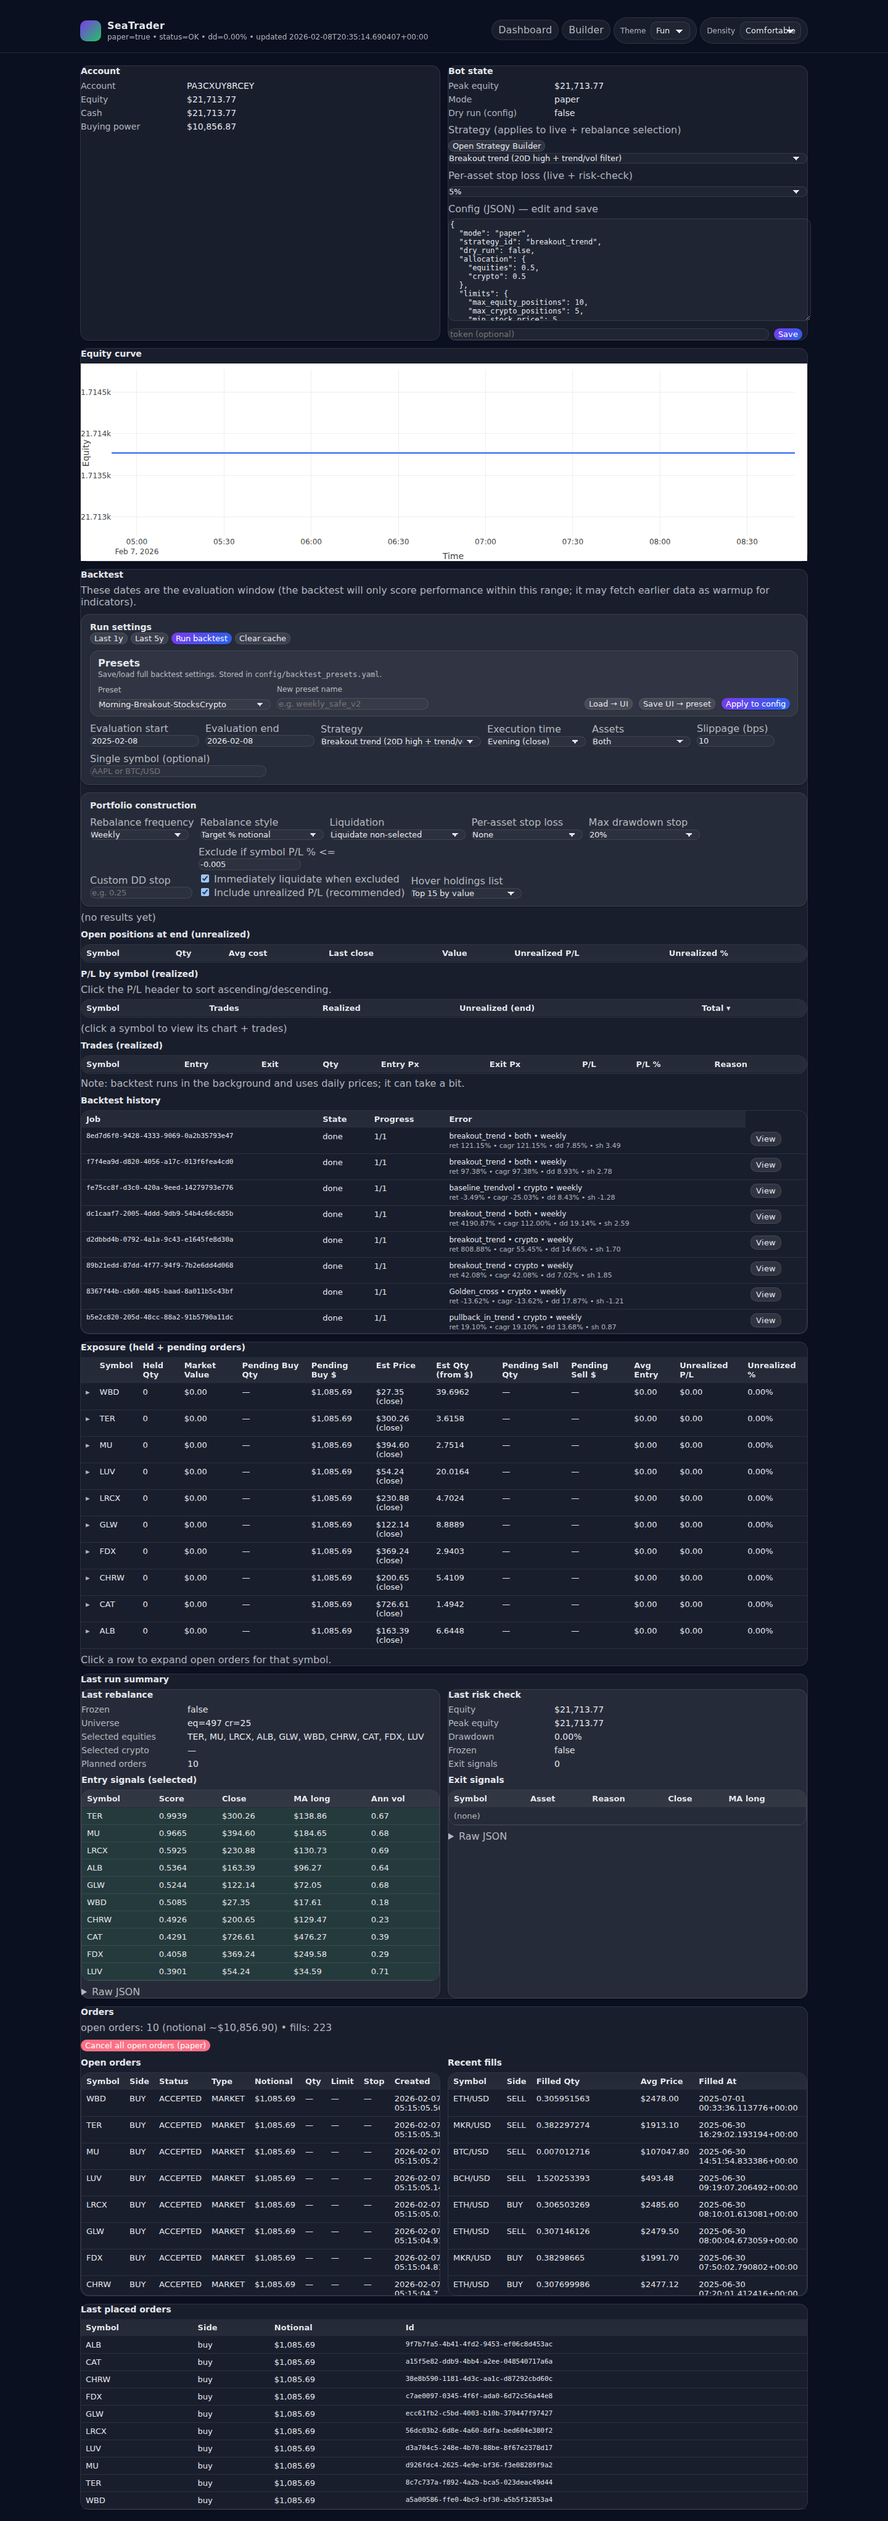
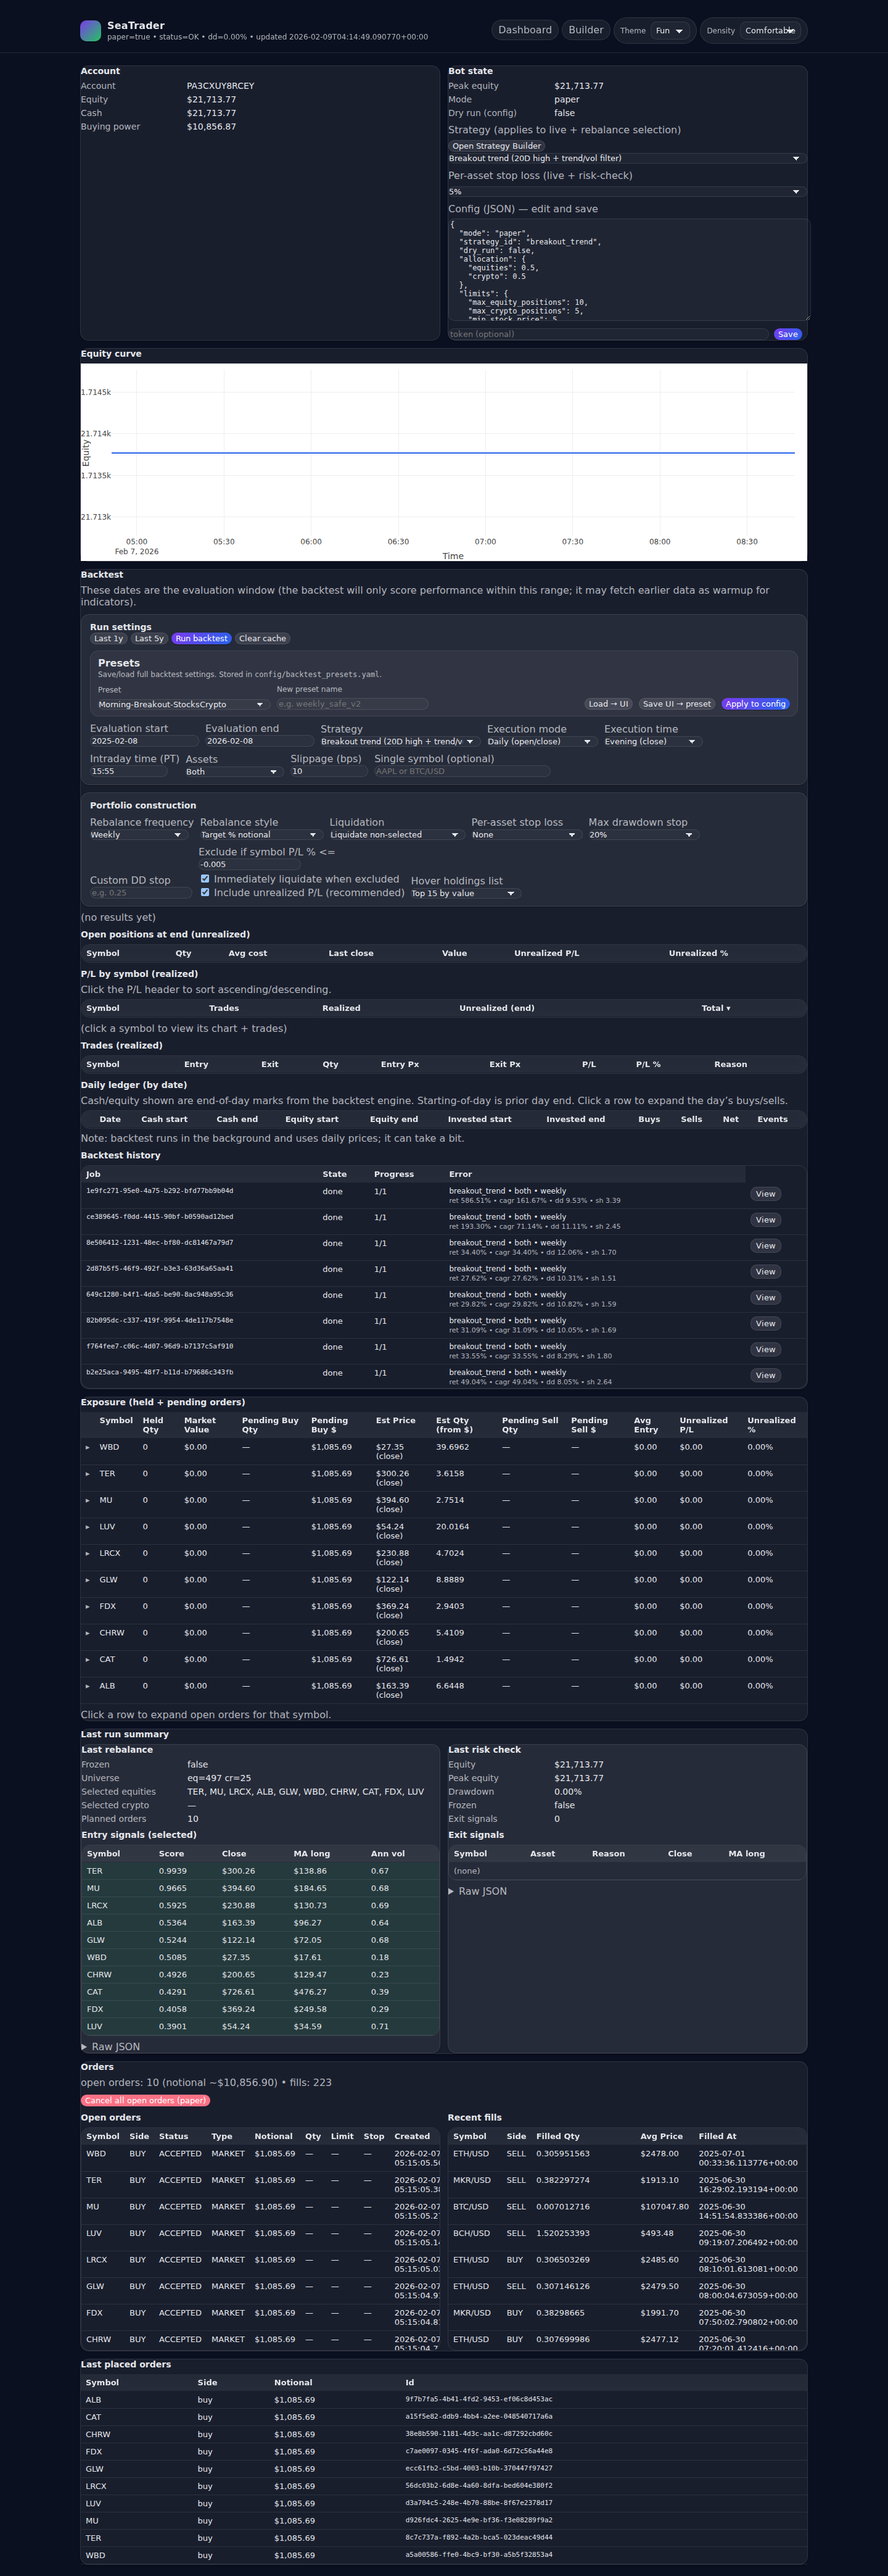
Paper trading: add --wait-until scheduling + doc; intraday backtest perf fix; refresh screenshots

diff --git a/src/tradebot/cli.py b/src/tradebot/cli.py
@@ -27,6 +27,23 @@ from tradebot.util.equity_curve import append_equity_point
 
 def cmd_rebalance(args: argparse.Namespace) -> int:
     cfg = load_config(args.config)
+
+    # Optional unattended scheduling: wait until configured/local time (rebalance only).
+    if args.wait_until is not None:
+        from datetime import datetime
+        from zoneinfo import ZoneInfo
+        import time as _time
+
+        tz = ZoneInfo(getattr(cfg.scheduling, "timezone", "America/Los_Angeles"))
+        now = datetime.now(tz)
+        hh, mm = [int(x) for x in str(args.wait_until).split(":")]
+        target = now.replace(hour=hh, minute=mm, second=0, microsecond=0)
+        if target > now:
+            secs = (target - now).total_seconds()
+            print(f"Waiting until {target.strftime('%Y-%m-%d %H:%M %Z')} (sleep {int(secs)}s)...")
+            _time.sleep(secs)
+        else:
+            print(f"[yellow]Warning[/yellow]: wait_until {args.wait_until} is in the past (now {now.strftime('%H:%M %Z')}); running immediately")
     env = load_env()
 
     # config can force dry_run; env can also force dry_run
@@ -209,6 +226,11 @@ def main() -> int:
     pr = sub.add_parser("rebalance", help="Run a (dry-run) rebalance")
     pr.add_argument("--config", default=str(Path("config/config.yaml")), help="Path to config YAML")
     pr.add_argument("--place-orders", action="store_true", help="Actually place orders (requires dry_run=false in config and DRY_RUN=false env)")
+    pr.add_argument(
+        "--wait-until",
+        default=None,
+        help="Optional local time HH:MM to sleep until before running (uses config.scheduling.timezone). Useful for unattended open/close runs.",
+    )
     pr.set_defaults(func=cmd_rebalance)
 
     pc = sub.add_parser("risk-check", help="Run drawdown/freeze check (no trades)")

diff --git a/src/tradebot/backtest/job.py b/src/tradebot/backtest/job.py
@@ -131,10 +131,20 @@ def start_backtest(*, config_path: str, params: dict) -> str:
                     exec_time_local=p.execution_time_local,
                     tz=p.execution_tz,
                 )
-                # Only apply intraday pricing on rebalance days
-                # (engine calls exec_px in multiple contexts; this keeps it scoped)
+
+                # Only apply intraday pricing on rebalance days.
+                # Precompute the rebalance day set once (avoid O(days) work per symbol call).
+                start_d = pd.to_datetime(p.start)
+                end_d = pd.to_datetime(p.end)
+                all_days = pd.date_range(start_d, end_d, freq="D")
+                if p.rebalance == "daily":
+                    reb_days = set(all_days)
+                else:
+                    # weekly rebalance is MON by default in engine
+                    reb_days = set([d for d in all_days if d.weekday() == 0])
+
                 def intraday_cb(sym, day):
-                    if day not in set([d for d in pd.date_range(pd.to_datetime(p.start), pd.to_datetime(p.end), freq='D') if (p.rebalance=='daily' or d.weekday()==0)]):
+                    if day not in reb_days:
                         return None
                     return prov.price(sym, day)
 

diff --git a/src/tradebot/util/config.py b/src/tradebot/util/config.py
@@ -50,7 +50,9 @@ class Execution(BaseModel):
 
 class Scheduling(BaseModel):
     weekly_rebalance_day: str = "MON"
+    weekly_rebalance_time_local: str = "06:35"  # PT by default (near US market open)
     daily_risk_check_time_local: str = "18:05"
+    timezone: str = "America/Los_Angeles"
 
 
 class Universe(BaseModel):

diff --git a/README.md b/README.md
@@ -214,6 +214,14 @@ Places orders only if:
 tradebot rebalance --config config/config.yaml --place-orders
 ```
 
+### Rebalance (unattended at a specific time)
+For unattended runs aligned to market open/close, you can optionally sleep until a local time before executing:
+
+```bash
+# Uses config.scheduling.timezone (default: America/Los_Angeles)
+tradebot rebalance --config config/config.yaml --place-orders --wait-until 06:35
+```
+
 ### Daily risk check
 Runs drawdown checks, generates exit signals, and writes artifacts.
 
@@ -362,7 +370,7 @@ High-impact next steps:
 - “Explain why entry/exit passed/failed” (per-condition evaluation output)
 
 ### Backtesting
-- Intraday execution time for **rebalance trades** (minute bars) (in progress)
+- Intraday execution time for **rebalance trades** (minute bars) ✅
 - Expand intraday execution to stop-loss exits + exclusion liquidations
 - Extend benchmark options and robust comparisons
 - Performance refactor: precompute rolling indicators per symbol to speed large sweeps
